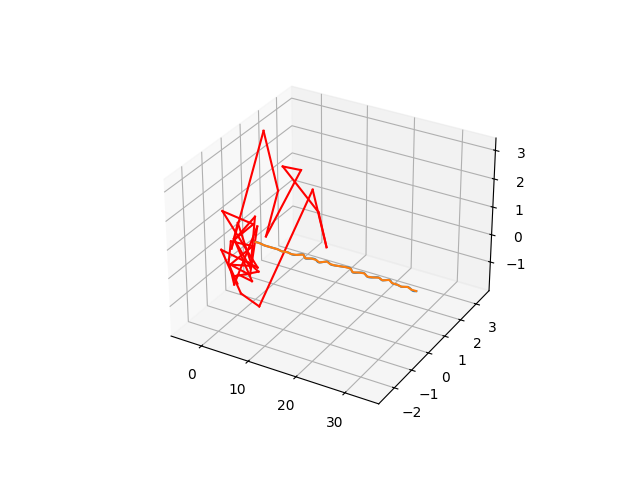
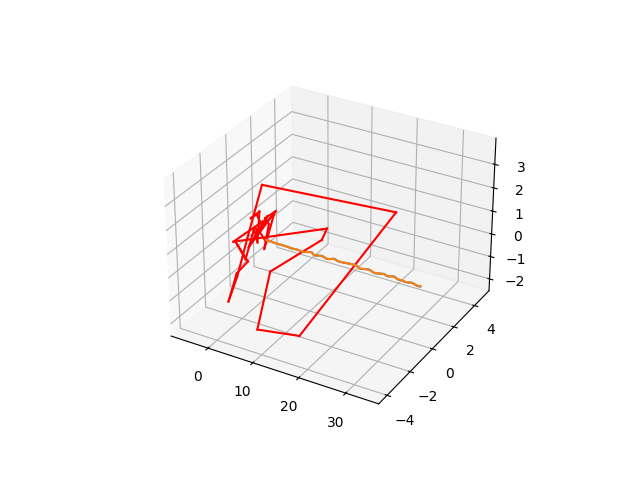
pca plots

diff --git a/devtesting.py b/devtesting.py
@@ -26,10 +26,12 @@ def main():
     from population_analysis.trajectory.plots import rate_correlogram, traj_changemaps, traj_3d_parametric
     from population_analysis.trajectory.plots import show_spline, traj_animated_shaped_path
     from population_analysis.trajectory.plots import traj_shaped_path
-    from population_analysis.trajectory.population.plots import pop_vec_traj_clusters, pop_vec_traj
+    from population_analysis.trajectory.population.plots import pop_vec_traj_clusters, pop_vec_traj, pop_vec_pcas
+    from population_analysis.trajectory.population.plots import pop_vec_pca_variances, unit_pca_bar, unit_graph
 
-    filename = "2023-04-11.hdf"
+    # filename = "2023-04-11.hdf"
     # filename = "2023-05-15.hdf"
+    filename = "units_2024-02-08_f1.hdf"
 
     date_fn = filename.split(".")[0]
 
@@ -37,7 +39,19 @@ def main():
 
     # dd = dictify_hd5(data)
     # dg is drifing grating, fg..?
-    all_units = data["rProbe"]["dg"]["left"]
+    # all_units = data["rProbe"]["dg"]["left"]
+
+    baseline_num = 8
+
+    all_units = data["rProbe"]["dg"]["left"]["fr"]  # Mean unit firing rates across trials
+    units_len = len(all_units)
+    # Unit means of first 8 timepoints to account for baseline
+    all_units_mean = np.mean(all_units[:, :baseline_num], axis=1).reshape(units_len, 1)
+    # Unit standard deviations of first 8 timepoints to account for baseline
+    all_units_sd = np.mean(data["rProbe"]["dg"]["left"]["sd"][:, :baseline_num], axis=1).reshape(units_len, 1)
+    all_units = (all_units - all_units_mean)/all_units_sd  # calc zscore
+
+    tw = 2
     all_unit_labels = data["unitLabel"]
     # for p in plots:
     #     p(arr["left"][0], arr["left"][1])
@@ -69,7 +83,7 @@ def main():
     clustered_units = []
     for label in session_cluster_labels:
         clustered_units.append(
-            filter_by_unitlabel(session_units, session_units_cluster_labels, label).T  # TODO transpose thingy
+            filter_by_unitlabel(session_units, session_units_cluster_labels, label)
         )
 
     save_prefix = f"graphs\\{date_fn}"
@@ -85,13 +99,22 @@ def main():
     unit1_firingrate = np.array(unit1_firingrate)
     unit2_firingrate = np.array(unit2_firingrate)
 
-    session_units = filter_by_unitlabel(session_units, session_units_cluster_labels, session_cluster_labels[0])
+    # print("Plotting cluster PCA trajectories gif")
+    # pop_vec_traj_clusters(clustered_units, save_filename=f"{save_prefix}\\pop_vec_traj_clusters.gif")
 
-    print("Plotting cluster PCA trajectories gif")
-    pop_vec_traj_clusters(clustered_units, save_filename=f"{save_prefix}\\pop_vec_traj_clusters.gif")
+    filtered_session_units = filter_by_unitlabel(session_units, session_units_cluster_labels, session_cluster_labels[1])
 
-    print("Plotting PCA trajectory for a session")
-    pop_vec_traj(session_units.T, save_to_file=f"{save_prefix}\\pop_vec_traj.png")  # TODO transpose thingy
+    pop_vec_pcas(filtered_session_units, save_to_file=f"{save_prefix}\\d_pcas.png")
+    pop_vec_pca_variances(filtered_session_units, save_to_file=f"{save_prefix}\\pca_variances.png")
+    unit_pca_bar(filtered_session_units, 0, save_to_file=f"{save_prefix}\\unit_pca_bar.png")
+    unit_graph(filtered_session_units[0], save_to_file=f"{save_prefix}\\unit_graph.png")
+
+
+    dasfadjgalskdjf
+    # print("Plotting PCA trajectory for a session")
+    # for i in range(len(session_cluster_labels)):
+    #     session_units2 = filter_by_unitlabel(session_units, session_units_cluster_labels, session_cluster_labels[i])
+    #     pop_vec_traj(session_units2.T, save_to_file=f"{save_prefix}\\pop_vec_traj_{i}.png")  # TODO transpose thingy
     # pop_vec_traj(session_units.T, save_to_file=False)
 
     print("Plotting basic spline")

diff --git a/src/population_analysis/trajectory/population/plots.py b/src/population_analysis/trajectory/population/plots.py
@@ -1,3 +1,4 @@
+import warnings
 from typing import Union, Any, Callable, Optional
 import matplotlib.pyplot as plt
 from matplotlib import animation
@@ -7,7 +8,7 @@ from population_analysis.util import make_colormap
 
 
 def pop_vec_traj(units: np.ndarray, colors: Optional[Callable[[int], Any]] = None, save_to_file: Union[bool, str] = False, plot_ax = None):
-    # Units is an n x t arr, where n is a number of units, t is time
+    # Units is an t x n arr, where n is a number of units, t is time
 
     pca = PCA(n_components=3)
     pca.fit(units)
@@ -65,4 +66,87 @@ def pop_vec_traj_clusters(clustered_units: list[np.ndarray], save_filename: str)
     ani = animation.FuncAnimation(fig=fig, func=update, frames=clust_len)
     ani.save(filename=save_filename, writer="pillow")
 
+
+def _pop_pca(units: np.ndarray, components: Optional[int] = 3):
+    # units is n x t (time by num units)
+    pca = PCA(n_components=components)
+    pca.fit(units)
+    data = pca.transform(units)
+    return pca, data
+
+
+def pop_vec_pca_variances(units: np.ndarray, save_to_file: Union[bool, str] = False):
+    pca, data = _pop_pca(units, None)
+    variance = pca.explained_variance_ratio_
+    variance = np.cumsum(variance)
+    fig, ax = plt.subplots()
+    ax.plot(list(range(len(variance))), variance)
+
+    if save_to_file:
+        plt.savefig(save_to_file)
+    else:
+        plt.show()
+    tw = 2
+
+
+def unit_pca_bar(units: np.ndarray, unit_idx: int, save_to_file: Union[bool, str] = False):
+    pca, data = _pop_pca(units)
+
+    # Bar graph of the values of the PCA embeddings for unit 'unit_idx'
+    fig, ax = plt.subplots()
+    unit = data[unit_idx]
+    x_vals = list(range(len(unit)))
+    ax.bar(x_vals, unit, linewidth=0.4)
+    ax.set_xticks(x_vals, [str(x) for x in x_vals])
+    ax.set_xlabel("PC Number")
+    ax.set_ylabel("PC Value")
+    if save_to_file:
+        plt.savefig(save_to_file)
+    else:
+        plt.show()
+    tw = 2
+
+
+def unit_graph(unit: np.ndarray, save_to_file: Union[bool, str] = False):
+    # Graph of unit's firing rate
+    fig, ax = plt.subplots()
+    ax.plot(list(range(len(unit))), unit)
+    if save_to_file:
+        plt.savefig(save_to_file)
+    else:
+        plt.show()
+    tw = 2
+
+
+def pop_vec_pcas(units: np.ndarray, save_to_file: Union[bool, str] = False):
+    # units is n x t (time by num units)
+    pca, data = _pop_pca(units)
+
+    fig, ax = plt.subplots()
+    colors = plt.get_cmap("Set1")
+    for idx, component in enumerate(pca.components_):
+        ax.plot(list(range(len(component))), component, color=colors(idx), label=f"{idx} PC")
+
+    fig.legend()
+    if save_to_file:
+        plt.savefig(save_to_file)
+    else:
+        plt.show()
+    tw = 2
+
+
+# def pop_vec_d_pcas(): TODO figure out use-case
+#     try:
+#         from dPCA.dPCA import dPCA  # Todo fix?
+#     except ImportError as e:
+#         warnings.warn(f"Unable to import dPCA package!")
+#         raise e
+#
+#     dpca = dPCA(labels="st", n_components=3, regularizer="auto")
+#     # trial = samples x neurons x stimuli x time_points
+#     # all = neurons x stimuli x time_points
+#     # TODO reshape all to center mean? R -= mean(R.reshape((N,-1)),1)[:,None,None]
+#     # pca = dpca.fit_transform(all, trial)
+#
+#     tw = 2
 

diff --git a/src/population_analysis/trajectory/plots.py b/src/population_analysis/trajectory/plots.py
@@ -10,7 +10,6 @@ import numpy as np
 from scipy.interpolate import splrep, BSpline
 from scipy.spatial import ConvexHull
 from sklearn.decomposition import PCA
-
 from population_analysis.util import make_colormap
 
 
